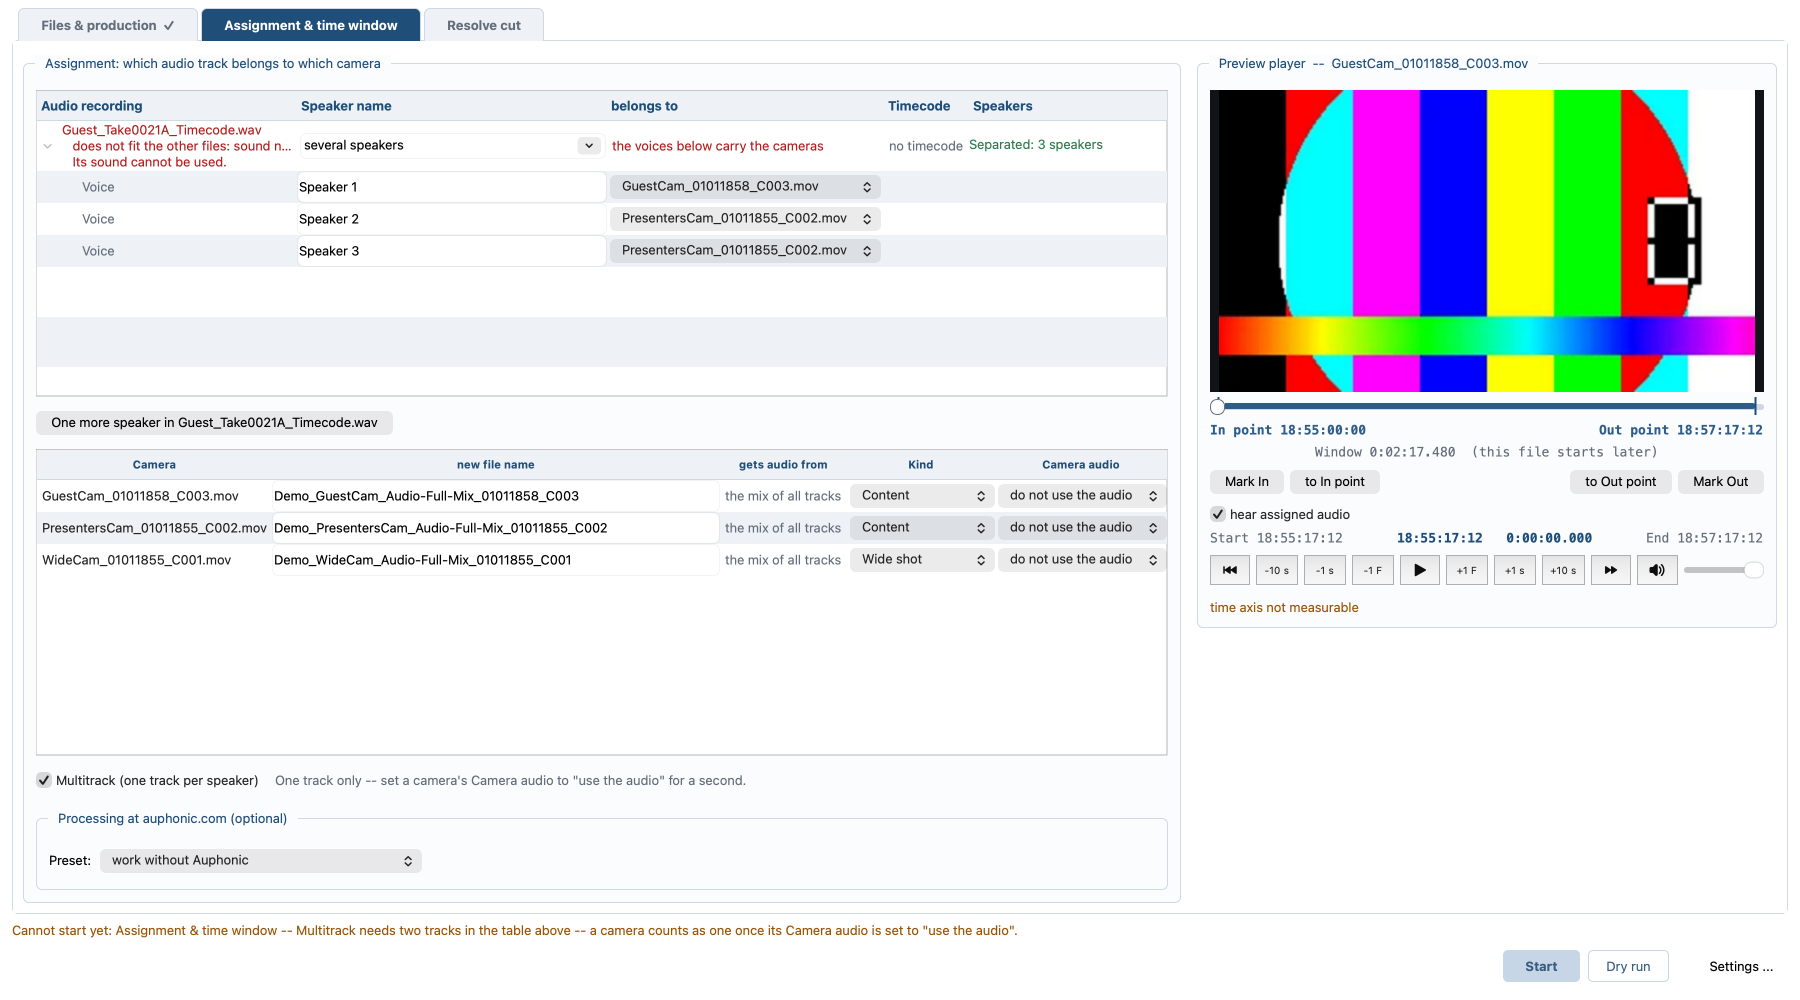
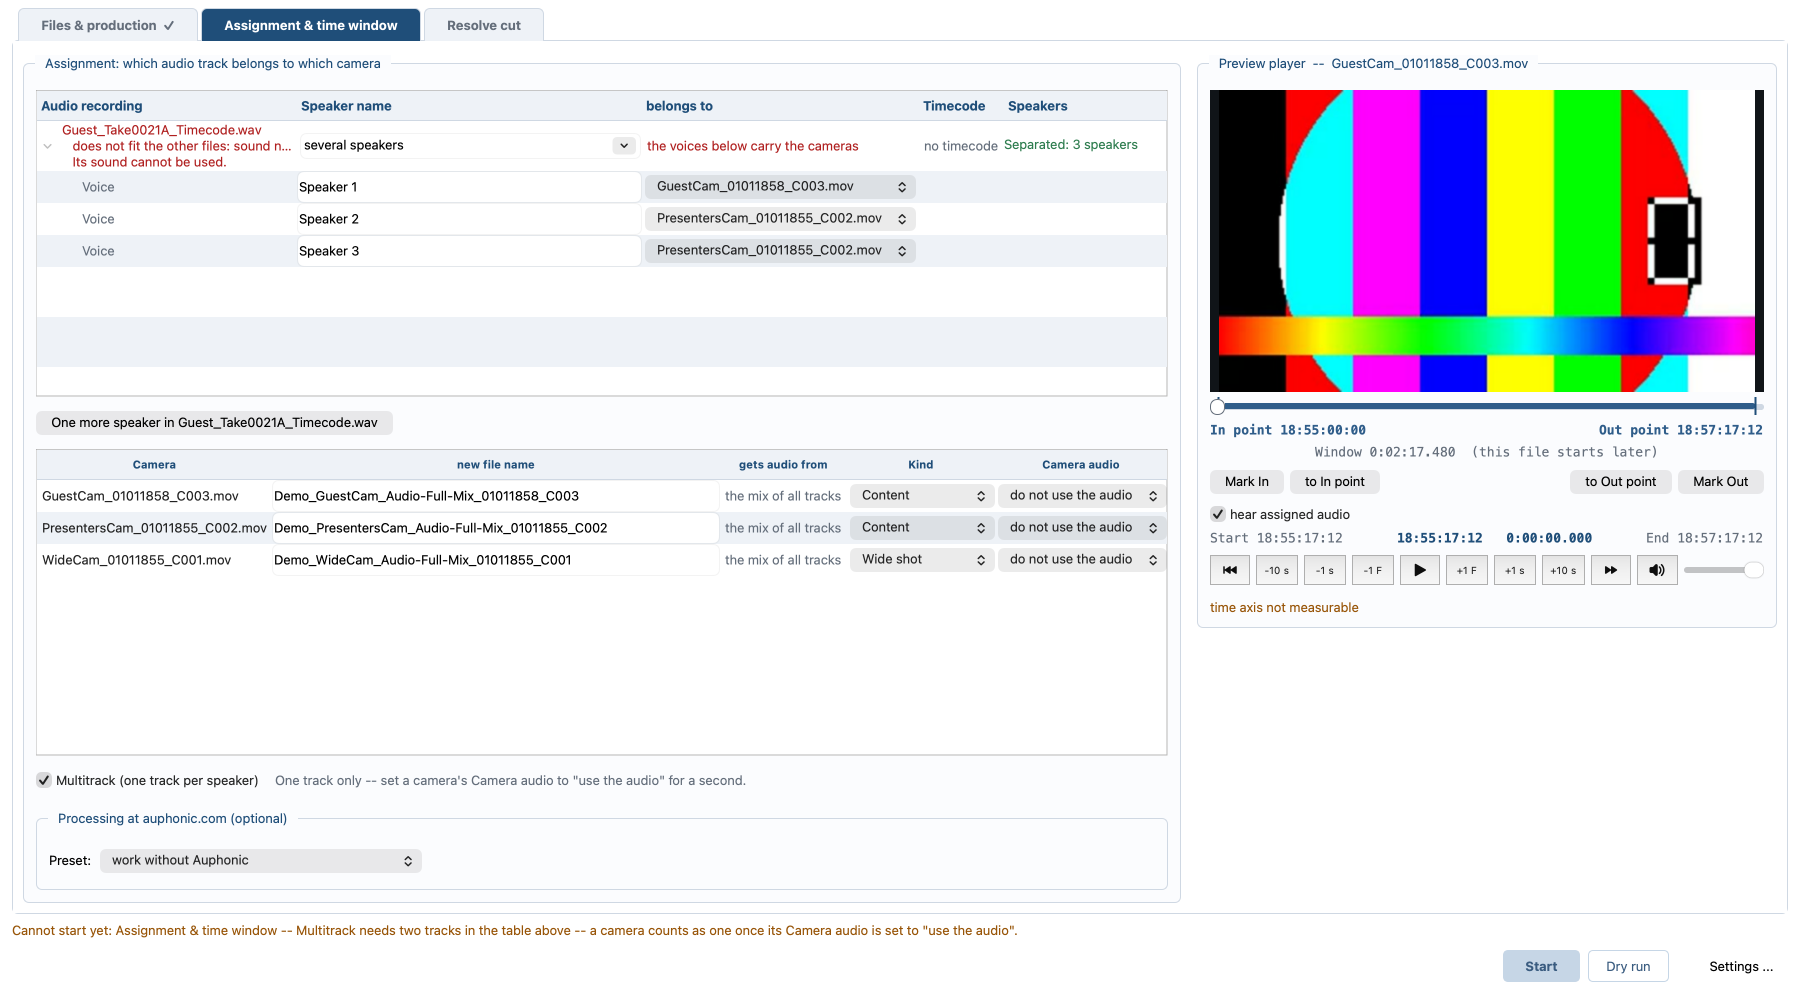
the switch beside a running job says "Stop"
"Break off" was the English wording, and it is the literal translation
of the German verb rather than the word an English program writes on a
switch. Four texts move: the switch itself, the caption it wears while
it is stopping, the sentence it says, and the summary afterwards, which
opened with "Broken off during: ...".

No translation changed. The English wording is the key in the nine
catalogues, so the key moved and the German still says "Abbrechen" --
proved over every msgstr in all nine files, 0 differences, and the same
comparison goes red when one is altered.

Measured, and it corrects the reason first given for the change: the
switch does not get narrower. QPushButton answers 80 px for both, under
Qt's own minimum. What does get narrower is the Speakers column, by
8 px, because "Stopping ..." is 67 px where "Breaking off ..." was 86 --
and that is why two pictures in the manual moved.

Claude-Session: https://claude.ai/code/session_01CaxpN2HT6tpUzeUNSF4jWw

Changed region(s): [[0.3422, 0.093, 0.4978, 0.279], [0.4978, 0.093, 0.6222, 0.155]]

diff --git a/videopodcast_magic/ui/__init__.py b/videopodcast_magic/ui/__init__.py
@@ -5169,10 +5169,10 @@ def split_column_room(widget):
     from PySide6 import QtWidgets as _qw
     mark = _qw.QLabel("")
     mark.setFont(widget.font())
-    button = _qw.QPushButton(T('Break off'))
+    button = _qw.QPushButton(T('Stop'))
     button.setFont(widget.font())
     running = caption_room(mark, 0, [T('Separating ...'),
-                                     T('Breaking off ...')])
+                                     T('Stopping ...')])
     done = caption_room(mark, 0, [TN(2, 'Separated: %d speaker',
                                      'Separated: %d speakers') % 2])
     return max(running + button.sizeHint().width() + 6, done) + 12
@@ -5281,8 +5281,8 @@ def split_cell_build(path, on_stop, item):
     row = _qw.QHBoxLayout(box)
     row.setContentsMargins(0, 0, 0, 0)
     row.setSpacing(6)
-    button = _qw.QPushButton(T('Break off'))
-    speaks_as(button, T('Break off'), os.path.basename(path))
+    button = _qw.QPushButton(T('Stop'))
+    speaks_as(button, T('Stop'), os.path.basename(path))
     button.clicked.connect(lambda *_, x=path: on_stop(x))
     button.setVisible(False)
     mark = label("", COLOURS["quiet"])
@@ -5659,9 +5659,9 @@ def measuring_stop(state, paths, prework_clean_up, split_stop, split_run,
     state["axis_running"] = False
     split_stop()
     split_run["busy"] = False
-    # What split_stop wrote into the row goes with it: "Breaking off
-    # ..." must not be the last thing said about a production that is
-    # no longer open.
+    # What split_stop wrote into the row goes with it: "Stopping ..."
+    # must not be the last thing said about a production that is no
+    # longer open.
     state["split_note"] = None
     state["speakers_running"] = ""
     hide_bar()
@@ -6558,7 +6558,7 @@ def broken_off_report(where, results):
     """
     done = [os.path.basename(x) for x in (results or [])]
     return "\n".join([
-        T('\nBroken off during: %s') % (where or "?"),
+        T('\nStopped during: %s') % (where or "?"),
         TN(len(done),
            '%d file was finished before that and is whole: %s',
            '%d files were finished before that and are whole: %s')
@@ -6580,15 +6580,15 @@ def break_off_button(QtWidgets, state, say):
     *state* is the window's own note of what is going on, and *say*
     writes a line where the run writes.
     """
-    button = QtWidgets.QPushButton(T('Break off'))
+    button = QtWidgets.QPushButton(T('Stop'))
     button.setVisible(False)
 
     def pressed():
         if not state.get("running"):
             return
         button.setEnabled(False)
-        button.setText(T('Breaking off ...'))
-        say(T('\nBreaking off. The run stops as soon as it can do so '
+        button.setText(T('Stopping ...'))
+        say(T('\nStopping. The run ends as soon as it can do so '
               'without leaving a file half written -- one moment.\n'))
         stop_asked_for(state.get("run_step") or "")
 
@@ -6645,7 +6645,7 @@ def break_off_arm(button):
     """Put the button back the way it was, for the run about to start."""
     stop_forget()
     button.setEnabled(True)
-    button.setText(T('Break off'))
+    button.setText(T('Stop'))
     button.setVisible(True)
 
 
@@ -9191,7 +9191,7 @@ def gui():
         if not split_run["busy"]:
             return
         split_run["stop"] = True
-        speaker_split_show(T('Breaking off ...'),
+        speaker_split_show(T('Stopping ...'),
                            where=state.get("speakers_running") or "")
 
     def voices_stored_for(path):

diff --git a/tests/table_row_per_voice_test.py b/tests/table_row_per_voice_test.py
@@ -532,10 +532,10 @@ def look(case, media):
               bool(labels(vpm.TN(len(FOUND), 'Separated: %d speaker',
                                  'Separated: %d speakers') % len(FOUND))),
               str([x.text() for x in labels(separated)]))
-        running = [b.text() for b in buttons(vpm.T('Break off'))
+        running = [b.text() for b in buttons(vpm.T('Stop'))
                    if b.isVisible()]
         check("and nothing is being computed", not running,
-              "%d Break off buttons on show, wanted 0: %s"
+              "%d Stop buttons on show, wanted 0: %s"
               % (len(running), running))
 
     def say_one_name():
@@ -636,10 +636,10 @@ def look(case, media):
         check("and nothing says a separation was found",
               not labels(separated), str([x.text() for x
                                           in labels(separated)]))
-        running = [b.text() for b in buttons(vpm.T('Break off'))
+        running = [b.text() for b in buttons(vpm.T('Stop'))
                    if b.isVisible()]
         check("and nothing is being computed", not running,
-              "%d Break off buttons on show, wanted 0: %s"
+              "%d Stop buttons on show, wanted 0: %s"
               % (len(running), running))
         check("and nothing has been separated", not separations,
               str(separations))

diff --git a/tests/voice_answer_kept_test.py b/tests/voice_answer_kept_test.py
@@ -223,7 +223,7 @@ print("\nThe three buttons of the footer row")
 vpm.list_presets = lambda key: [("Podcast_Multitrack", "u1", True)]
 vpm.load_api_key = lambda: ""
 WANTED = {vpm.T('Start'), vpm.T('Dry run'), vpm.T('Settings ...'),
-          vpm.T('Break off')}
+          vpm.T('Stop')}
 step = [0]
 
 

diff --git a/docs/interface.md b/docs/interface.md
@@ -156,7 +156,7 @@ Four tabs, in the order they are needed.
   separation nobody has answered for leaves the field empty and the
   rows hidden, and answering later brings them up at once, with the
   names and cameras they already had. The fifth column, **Speakers**,
-  says how that stands -- **Separating ...** and **Break off** while
+  says how that stands -- **Separating ...** and **Stop** while
   it runs, in that row and no other, then **Separated: 4
   speakers**, and where it could not run, a short sentence pointing at
   the log, which carries the reason itself. It is a
@@ -166,7 +166,7 @@ Four tabs, in the order they are needed.
   Each recording keeps a separation of its own, and several stand side
   by side: every row counts the voices of its own recording, and taking
   a second one apart leaves the first one's rows, names and cameras
-  where they are. Only **Break off** is ever in one row alone, because
+  where they are. Only **Stop** is ever in one row alone, because
   one recording is worked through at a time.
 
   A name is a person, and a person stands on the sheet once. A name that

diff --git a/docs/speech.md b/docs/speech.md
@@ -16,9 +16,8 @@ On the **Assignment & time window** tab every recording carries a
 field says the recording is that one person. The one entry that can be
 picked instead, **several speakers**, says there are several, and the
 program goes and works out who speaks when in that one recording.
-While a run is going, the **Speakers** cell of that row offers **Break
-off** and the other rows offer nothing: one recording is separated at
-a time.
+While a run is going, the **Speakers** cell of that row offers **Stop**
+and the other rows offer nothing: one recording is separated at a time.
 
 The field starts empty, with the name the file name suggests standing
 in it in grey. Nothing else fills it in. A recording that carries a

diff --git a/docs/multitrack.md b/docs/multitrack.md
@@ -58,7 +58,7 @@ empty field and no voice rows. Nothing measured is lost -- the voices
 stay in the project and in the cache folder, and picking **several
 speakers** later brings them up at once, with their names and cameras
 and without computing again. The last column says how far that got and
-offers **Break off** while it runs ([Speech recognition and speaker
+offers **Stop** while it runs ([Speech recognition and speaker
 separation](speech.md)). Nothing there starts a separation: a name
 typed over **several speakers** hides the voice rows again and keeps
 what was worked out, and what brings them back is the answer in the
